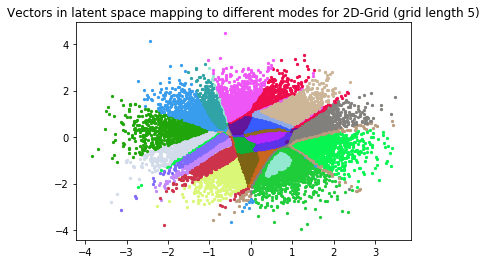
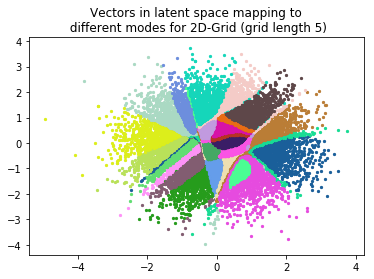
hi

diff --git a/experiments/synthetic/gan.py b/experiments/synthetic/gan.py
@@ -330,7 +330,7 @@ def visualize_latent_space(loaded_gen,
 
     plt.clf()
     plt.title(
-        "Vectors in latent space mapping to different modes for 2D-Grid (grid length %d)"
+        "Vectors in latent space mapping to\n different modes for 2D-Grid (grid length %d)"
         % grid_length)
     for i in range(grid_length * grid_length):
         if len(latent_vecs[i]) == 0:
